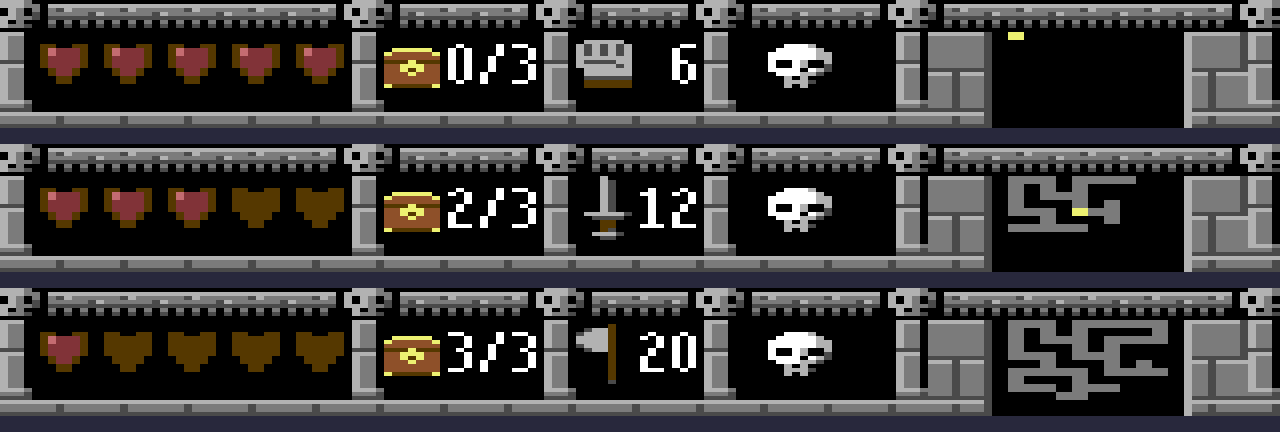
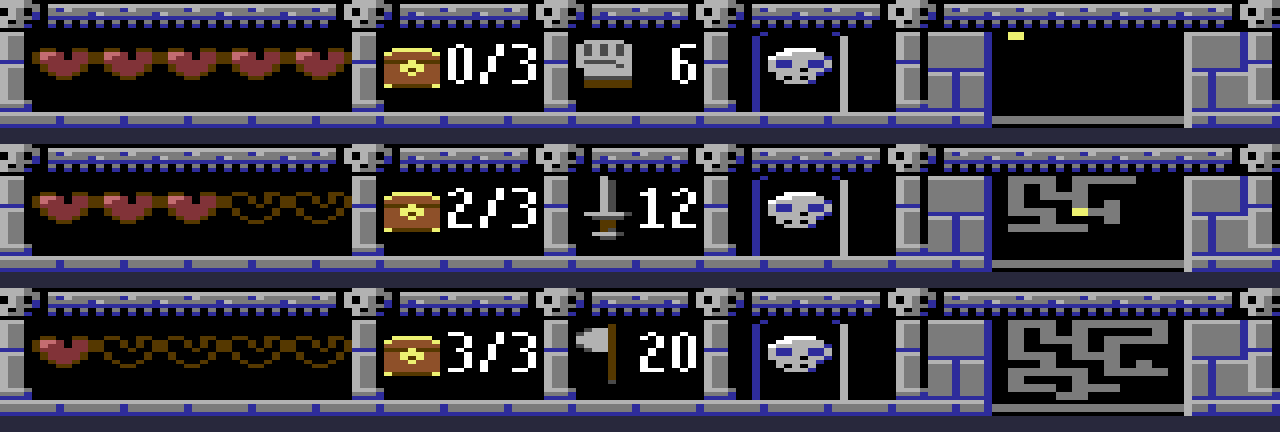
Catacombs HUD round 3: hollow empty hearts, yellow/red map mark, window sill, skull niche
- Hearts use the full 8 pixels with a cleft and a diagonal taper; empty
  ones are the brown rim only, black inside.
- Minimap: the mark blinks yellow/red (colour 1, red, was unused in the
  window); explored rooms stay grey.
- The map window has its own sill (lines 29-30), copied into the RAM
  cells by Minimap.Init from hud_MapSill.
- The skull sits in a dark arched niche, light grey with white only on
  the cranium.
- Panel stone uses blue for mortar and shadows, like the room's stone.
- The unused '/' digit tile is gone ('/3' is in the picture).

diff --git a/Catacombs/art/hud_art.py b/Catacombs/art/hud_art.py
@@ -53,12 +53,12 @@ SKULL_COL = 24            # a skull in a niche: 24-25 (compartment 23-27)
 MAPBOX_COL = 29           # minimap: carved stone block 29-38 ...
 MAP_COL = 31              # ... with the map window in 31-36
 
-STONE = (GREY1, GREY2, GREY3)
+STONE = (BLUE, GREY2, GREY3)            # blue mortar and shadows, like the room's stone
 HEART_PAL = (BROWN, RED, LRED)          # socket/rim, body, highlight
 CHEST_PAL = (BROWN, ORANGE, YELLOW)     # dark wood, wood, gold
 DIGIT_PAL = (GREY1, GREY3, WHITE)       # shadow, lower half, upper half
 WEAPON_PAL = (GREY1, GREY3, BROWN)      # dark edge, steel, wood
-MAP_PAL = (GREY1, GREY2, YELLOW)        # frame, explored room, you are here
+MAP_PAL = (RED, GREY2, YELLOW)          # blink, explored room / sill, you are here
 
 
 class Panel:
@@ -120,30 +120,38 @@ def pad(rows, width=8, height=16, top=0):
 # ---------------------------------------------------------------------------
 # Tiles: pictures 16 lines tall (cell rows 22-23), stored top cell row first.
 # ---------------------------------------------------------------------------
-HEART_FULL = pad([         # 6 wide, centred on the boundary between its two cells
+HEART_FULL = pad([         # the full 8 pixels of its two cells; the half split is the cell boundary
     ".11..11.",
-    ".132221.",
-    ".132221.",
-    ".122221.",
+    "1332.221",
+    "1322.221",
+    "12222221",
     ".122221.",
     ".122221.",
     "..1221..",
-    "..1221..",
     "...11...",
-    "...11...",
-], top=3)
-HEART_EMPTY = pad([        # a dark socket of the same size
-    ".11..11.",
-    ".111111.",
-    ".111111.",
-    ".111111.",
-    ".111111.",
-    ".111111.",
-    "..1111..",
-    "..1111..",
-    "...11...",
-    "...11...",
-], top=3)
+], top=4)
+
+
+def hollow(rows):
+    """The same heart as an empty socket: its rim only, black inside."""
+    out = []
+    for y, line in enumerate(rows):
+        row = ""
+        for x, ch in enumerate(line):
+            if ch == ".":
+                row += "."
+                continue
+            edge = False
+            for dx, dy in ((1, 0), (-1, 0), (0, 1), (0, -1)):
+                nx, ny = x + dx, y + dy
+                if ny < 0 or ny >= len(rows) or nx < 0 or nx >= len(line) or rows[ny][nx] == ".":
+                    edge = True
+            row += "1" if edge else "."
+        out.append(row)
+    return out
+
+
+HEART_EMPTY = hollow(HEART_FULL)
 
 GLYPHS = {                 # 3x10, drawn in the upper colour, lower colour below the middle
     '0': [".#.", "#.#", "#.#", "#.#", "#.#", "#.#", "#.#", "#.#", "#.#", ".#."],
@@ -159,7 +167,7 @@ GLYPHS = {                 # 3x10, drawn in the upper colour, lower colour below
     '/': ["..#", "..#", "..#", ".#.", ".#.", ".#.", ".#.", "#..", "#..", "#.."],
     ' ': ["..."] * 10,
 }
-DIGIT_ORDER = "0123456789/"
+DIGIT_ORDER = "0123456789"           # ("/" is only ever in the picture)
 
 
 def digit_tile(ch):
@@ -231,19 +239,18 @@ FIST = pad([               # unarmed: a mailed fist
 ], top=2)
 WEAPONS = (FIST, SWORD, AXE)
 
-SKULL_ICON = pad([          # monsters slain
-    "..3332..",
-    ".333332.",
-    "33333322",
-    "33333322",
-    "3..32..2",
-    "3..32..1",
-    "3333.321",
-    ".333221.",
-    "..2.2...",
+SKULL_ICON = pad([          # lit from above: white only on the cranium
+    "..3333..",
+    ".332222.",
+    "32222221",
+    "21122112",
+    "21122112",
+    "2222.221",
+    ".222221.",
+    ".2.2.2..",
     "..2221..",
-    "..2.2...",
-], top=3)
+], top=4)
+SKULL_PAL = (BLUE, GREY3, WHITE)
 
 SKULL_CAP = [              # tops every pillar, with a black outline
     "..3332..",
@@ -293,8 +300,15 @@ def draw_frame(p):
 def draw_static(p):
     p.put(CHEST_COL * 4, 8, CHEST)
     p.colour(CHEST_COL, 1, CHEST_COL + 1, 2, CHEST_PAL)
+    # The skull's niche: a dark arch with a lit rim on the right, in stone.
+    nx0, nx1 = SKULL_COL * 4 - 2, SKULL_COL * 4 + 9
+    for y in range(9, 28):
+        p.px[y][nx0] = 1
+        p.px[y][nx1] = 3
+    p.put(nx0, 8, [".1111111111."])
+    p.put(nx0, 9, ["1..........3"])
     p.put(SKULL_COL * 4, 8, SKULL_ICON)
-    p.colour(SKULL_COL, 1, SKULL_COL + 1, 2, DIGIT_PAL)
+    p.colour(SKULL_COL, 1, SKULL_COL + 1, 2, SKULL_PAL)
 
     # The minimap's stone block: carved border, rivets, recessed window.
     x0, x1 = MAPBOX_COL * 4, (MAPBOX_COL + 10) * 4 - 1
@@ -311,7 +325,7 @@ def draw_static(p):
     # explored = all black): a dark inset on its left, a lit edge on its
     # right, both in the stone block's cells.
     wx0, wx1 = MAP_COL * 4, (MAP_COL + 6) * 4 - 1
-    p.fill(wx0, 8, wx1, 31, 0)
+    p.fill(wx0, 8, wx1, 31, 0)                # (Hud.Render draws the window from RAM)
     p.fill(wx0 - 1, 8, wx0 - 1, 31, 1)
     p.fill(wx1 + 1, 8, wx1 + 1, 31, 3)
     p.colour(MAP_COL, 1, MAP_COL + 5, 3, MAP_PAL)
@@ -358,7 +372,7 @@ def tile_bytes(rows):
 
 
 # Tile numbers (Hud.cs): hearts 0-7 (full left/right, empty left/right),
-# digits 8-29 ("0"-"9", "/"), weapons 30-41 (fist, sword, axe).
+# digits 8-27 ("0"-"9"), weapons 28-39 (fist, sword, axe).
 def tile_sets(panel):
     tiles = []
     for art in (HEART_FULL, HEART_EMPTY):
@@ -378,11 +392,14 @@ def tile_sets(panel):
     # (The rooms' rows: line 2y+6 of the panel, so maze rows 1-10 fill lines 8-27.)
     # hud_MapCellRow[y]: the screen row of the cell holding maze row y.
     cellrows = [21 + ((2 * y + 6) >> 3) for y in range(1, 11)]
-    return tiles, rows, cellrows
+    # hud_MapSill: hud_Map bytes 101-142 as a new run starts -- the window's
+    # own sill (lines 29-30 of its bottom cells, colour 2), black between.
+    sill = [0xAA if (101 + i) % 8 in (5, 6) else 0 for i in range(42)]
+    return tiles, rows, cellrows, sill
 
 
 def write_cs(path, sets):
-    names = ("hud_Tiles", "hud_MapRow", "hud_MapCellRow")
+    names = ("hud_Tiles", "hud_MapRow", "hud_MapCellRow", "hud_MapSill")
     lines = ["// Generated by art/hud_art.py -- do not edit. The status panel's tiles",
              "// (8 bytes a cell; a picture's top cell row, then its bottom one), the",
              "// minimap's cells and its row table.",
@@ -431,13 +448,14 @@ def mock(panel, hp, treasure, weapon, power, kills, seen, here, bright=True):
     for i, ch in enumerate("%d/3" % treasure):
         p.put((COUNT_COL + i) * 4, 8, digit_tile(ch))
     p.put(WEAPON_COL * 4, 8, WEAPONS[weapon])
+    p.fill(MAP_COL * 4, 29, MAP_COL * 4 + 23, 30, 2)     # the window's sill, as Minimap.Init makes it
     for i, ch in enumerate("%2d" % power):
         if ch != " ":
             p.put((POWER_COL + i) * 4, 8, digit_tile(ch))
     for (mx, my) in seen:
         if MAZE[my][mx] != '1':
             continue
-        v = 3 if (mx, my) == here and bright else 2
+        v = (3 if bright else 1) if (mx, my) == here else 2
         for dy in range(2):
             for dx in range(2):
                 p.px[2 * my + 6 + dy][MAP_COL * 4 + 2 * mx + dx] = v

diff --git a/Catacombs/Minimap.cs b/Catacombs/Minimap.cs
@@ -4,15 +4,15 @@ namespace Catacombs;
 
 // The panel's map (see Hud.cs): the maze's 10x10 rooms in the window of
 // panel columns 31-36, one room = 2x2 multicolour pixels, from line 8 of the
-// panel. Only rooms the player has been in are drawn (fog of war), dim; the
-// room the player is in is the bright "you are here" mark, which blinks
-// between bright and dim (never off).
+// panel. Only rooms the player has been in are drawn (fog of war), in grey;
+// the room the player is in is the "you are here" mark, which blinks
+// yellow / red (never off, never like the rooms around it).
 //
 // The window's 6x3 cells live in RAM (hud_Map, HudArt.cs) as tiles. A room
 // is half a bitmap byte on two lines: revealing, marking or blinking one
 // changes two bytes there and copies that one cell to the screen. In a
-// room's four bits per line, %1010 is dim (colour 2) and %1111 is bright
-// (colour 3), so a blink is an exclusive-or with %0101.
+// room's four bits per line, %1010 is explored (grey), %1111 the mark
+// (yellow) and %0101 its blink (red): a blink is an exclusive-or with %1010.
 static class Minimap
 {
     static uint index_;             // the current room's first byte in hud_Map
@@ -22,6 +22,7 @@ static class Minimap
     public static void Init()
     {
         C64.FillMemory(C64Address.FromLabel("hud_Map-1"), 0, 144); // FillMemory writes bytes 1..size
+        C64.CopyMemory(C64Address.FromLabel("hud_Map+100"), C64Address.FromLabel("hud_MapSill-1"), 42); // the window's sill (CopyMemory copies bytes 1..size)
         mask_ = 0;
 #if SCENE_TIMING || SCENE_TIMINGM
         C64.Screen.SetSplit(21, ScreenMode.Bitmap); // the timing readout is hi-res text
@@ -31,16 +32,16 @@ static class Minimap
     public static void Enter(uint x, uint y)
     {
         if (mask_ != 0)
-            Store((C64.GetMemory(C64Address.FromLabel("hud_Map"), index_) | mask_) ^ blink_);        // the room left behind: dim
+            Store((C64.GetMemory(C64Address.FromLabel("hud_Map"), index_) | mask_) ^ (blink_ ^ mask_)); // the room left behind: explored
         index_ = C64.GetMemory(C64Address.FromLabel("hud_MapRow-1"), y) + (x & 0xFE) * 4;
         row_ = C64.GetMemory(C64Address.FromLabel("hud_MapCellRow-1"), y);
         column_ = 31 + (x >> 1);
         mask_ = 0xF0;
-        blink_ = 0x50;
+        blink_ = 0xA0;
         if ((x & 1) != 0)
         {
             mask_ = 0x0F;
-            blink_ = 0x05;
+            blink_ = 0x0A;
         }
         Store(C64.GetMemory(C64Address.FromLabel("hud_Map"), index_) | mask_);                       // this one: bright
     }

diff --git a/Catacombs/HudArt.cs b/Catacombs/HudArt.cs
@@ -6,10 +6,10 @@ using C64Lib;
 [assembly: RawImage(Resource = "hud_panel.img", Label = "HudPanel")]
 [assembly: RawAssembly(Asm = @"
 hud_Map = $0340      ; the minimap's 6x3 cells (144 bytes) in the free cassette buffer
-hud_Tiles .byte $00,$00,$00,$14,$1e,$1e,$1a,$1a,$1a,$06,$06,$01,$01,$00,$00,$00
-          .byte $00,$00,$00,$14,$a4,$a4,$a4,$a4,$a4,$90,$90,$40,$40,$00,$00,$00
-          .byte $00,$00,$00,$14,$15,$15,$15,$15,$15,$05,$05,$01,$01,$00,$00,$00
-          .byte $00,$00,$00,$14,$54,$54,$54,$54,$54,$50,$50,$40,$40,$00,$00,$00
+hud_Tiles .byte $00,$00,$00,$00,$14,$7e,$7a,$6a,$1a,$1a,$06,$01,$00,$00,$00,$00
+          .byte $00,$00,$00,$00,$14,$29,$29,$a9,$a4,$a4,$90,$40,$00,$00,$00,$00
+          .byte $00,$00,$00,$00,$14,$41,$41,$40,$10,$10,$04,$01,$00,$00,$00,$00
+          .byte $00,$00,$00,$00,$14,$11,$11,$41,$04,$04,$10,$40,$00,$00,$00,$00
           .byte $00,$00,$00,$30,$cc,$cc,$cc,$cc,$cc,$cc,$cc,$cc,$30,$00,$00,$00
           .byte $00,$00,$00,$30,$f0,$30,$30,$30,$30,$30,$30,$30,$fc,$00,$00,$00
           .byte $00,$00,$00,$30,$cc,$0c,$0c,$30,$30,$c0,$c0,$c0,$fc,$00,$00,$00
@@ -20,7 +20,6 @@ hud_Tiles .byte $00,$00,$00,$14,$1e,$1e,$1a,$1a,$1a,$06,$06,$01,$01,$00,$00,$00
           .byte $00,$00,$00,$fc,$0c,$0c,$0c,$30,$30,$30,$c0,$c0,$c0,$00,$00,$00
           .byte $00,$00,$00,$30,$cc,$cc,$cc,$30,$cc,$cc,$cc,$cc,$30,$00,$00,$00
           .byte $00,$00,$00,$30,$cc,$cc,$cc,$cc,$3c,$0c,$0c,$0c,$f0,$00,$00,$00
-          .byte $00,$00,$00,$0c,$0c,$0c,$30,$30,$30,$30,$c0,$c0,$c0,$00,$00,$00
           .byte $00,$00,$2a,$99,$99,$99,$aa,$95,$00,$00,$a0,$98,$98,$98,$a8,$68
           .byte $aa,$2a,$2a,$15,$3f,$3f,$00,$00,$98,$a8,$a8,$54,$fc,$fc,$00,$00
           .byte $02,$02,$02,$02,$02,$02,$02,$02,$00,$40,$40,$40,$40,$40,$40,$40
@@ -29,4 +28,7 @@ hud_Tiles .byte $00,$00,$00,$14,$1e,$1e,$1a,$1a,$1a,$06,$06,$01,$01,$00,$00,$00
           .byte $00,$00,$00,$00,$00,$00,$00,$00,$c0,$c0,$c0,$c0,$c0,$c0,$c0,$40
 hud_MapRow .byte $00,$02,$04,$06,$30,$32,$34,$36,$60,$62
 hud_MapCellRow .byte $16,$16,$16,$16,$17,$17,$17,$17,$18,$18
+hud_MapSill .byte $aa,$aa,$00,$00,$00,$00,$00,$00,$aa,$aa,$00,$00,$00,$00,$00,$00
+            .byte $aa,$aa,$00,$00,$00,$00,$00,$00,$aa,$aa,$00,$00,$00,$00,$00,$00
+            .byte $aa,$aa,$00,$00,$00,$00,$00,$00,$aa,$aa
 ")]

diff --git a/Catacombs/Hud.cs b/Catacombs/Hud.cs
@@ -27,8 +27,8 @@ static class Hud
 
     // Tile numbers in hud_Tiles (see art/hud_art.py): every picture is its
     // top cell row, then its bottom cell row.
-    const uint DigitTiles = 8;      // "0"-"9", "/": 2 tiles each
-    const uint WeaponTiles = 30;    // fist, sword, axe: 4 tiles each
+    const uint DigitTiles = 8;      // "0"-"9": 2 tiles each
+    const uint WeaponTiles = 28;    // fist, sword, axe: 4 tiles each
 
     // Heart cells' video matrix byte: rim brown (high nibble), body (low nibble).
     const uint HeartBody = 0x92;    // red
